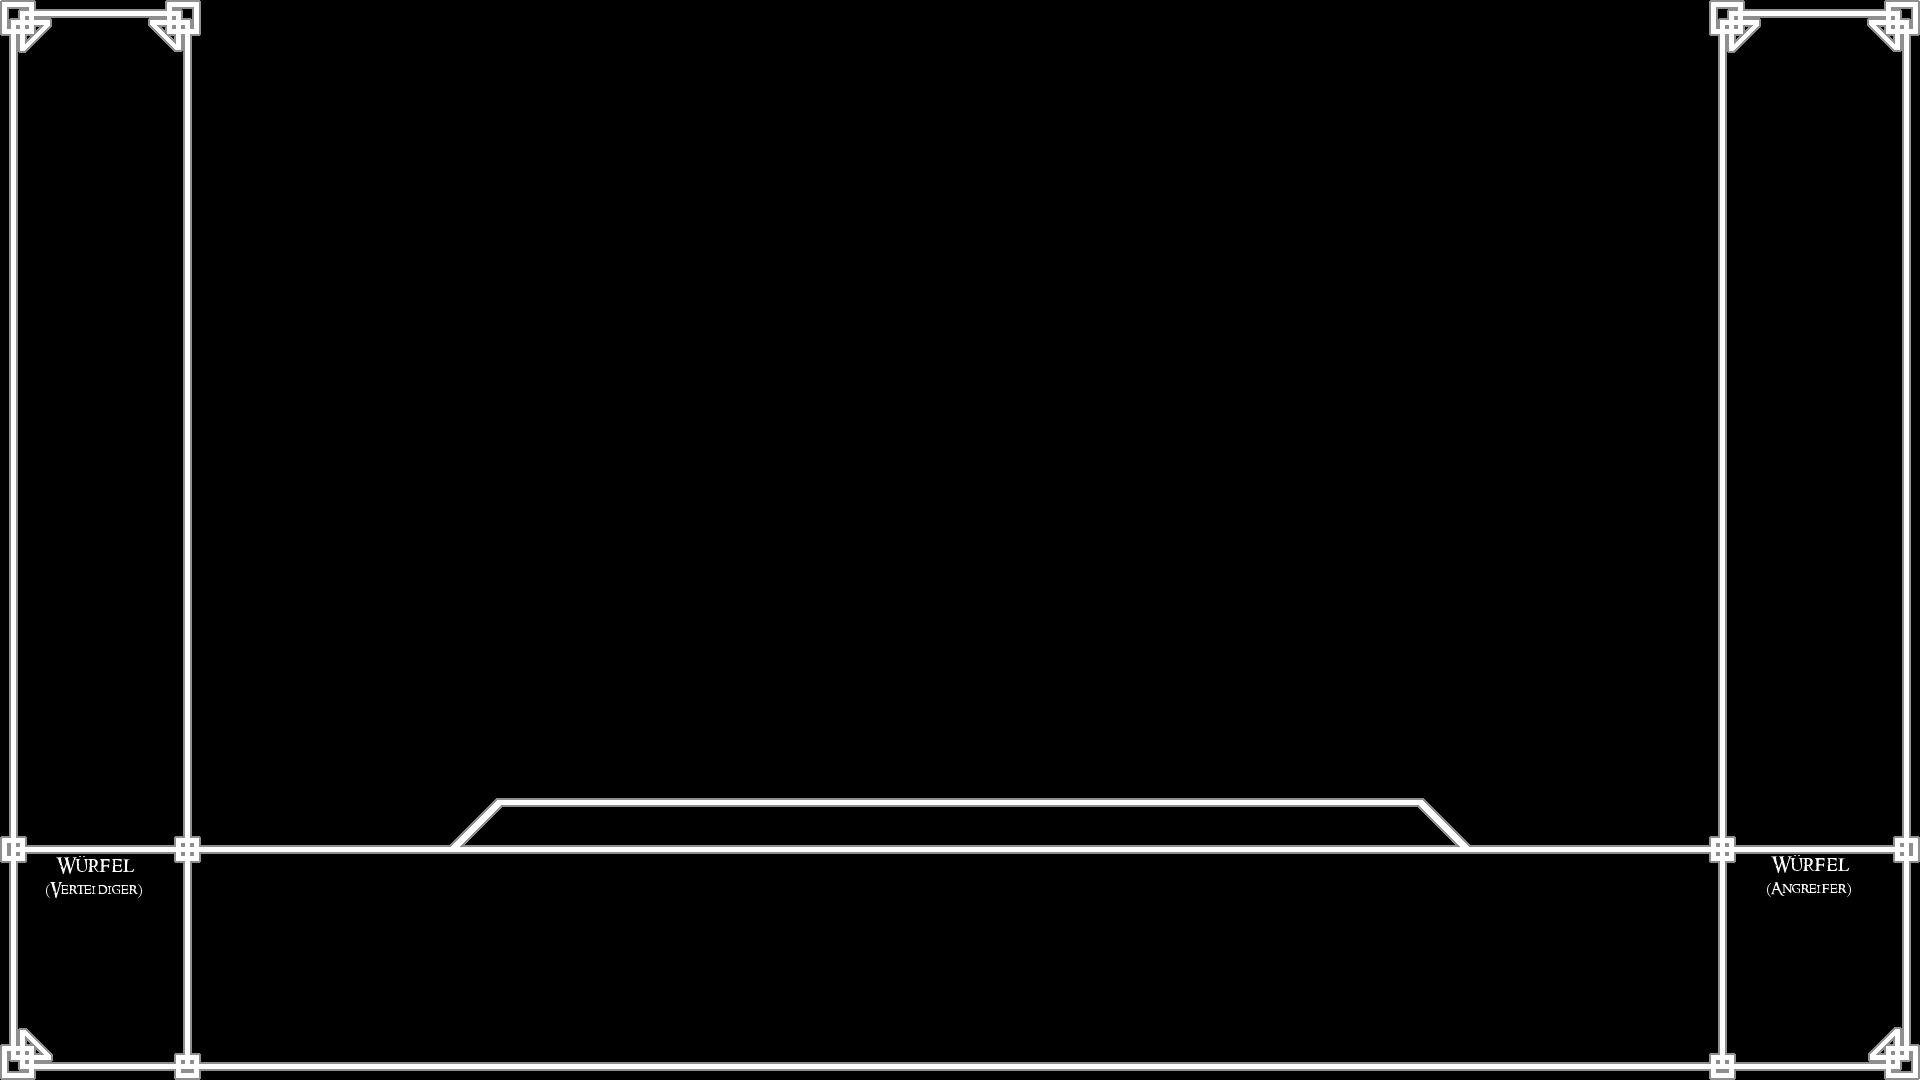
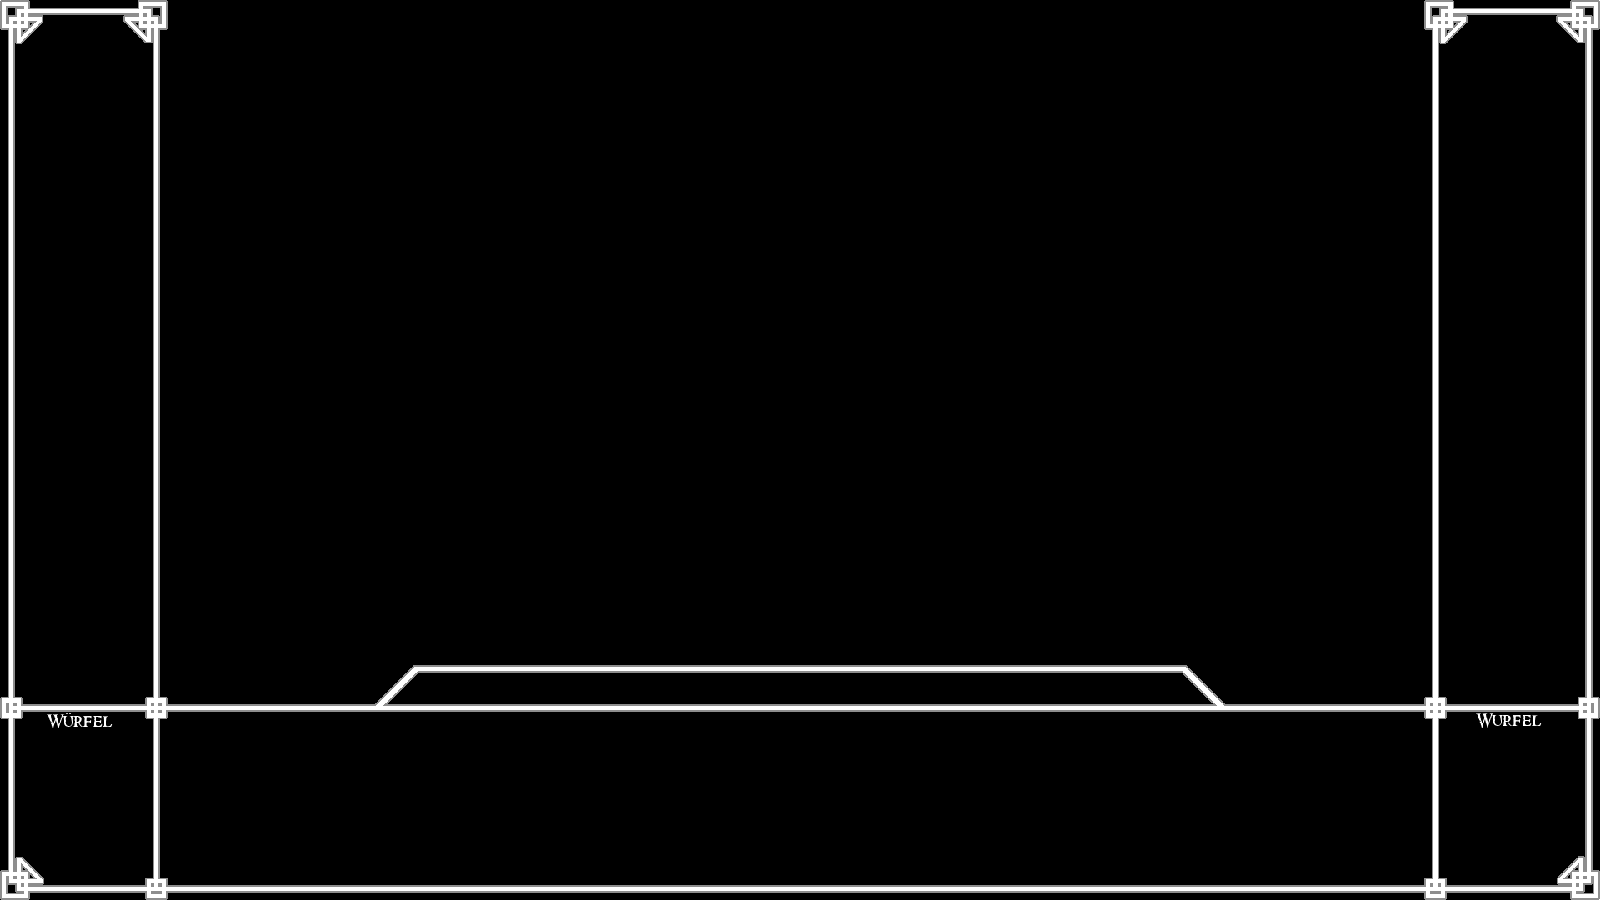
Anpassung Grafik
veränderte Grafik für 1600x900, angepasste Größen

diff --git a/GeneralMap.java b/GeneralMap.java
@@ -27,9 +27,9 @@ public class GeneralMap extends World
          * @param y Y-Ausdehnung
          * @param p Kantenlänge der Felder in Pixeln
          */
-        super(1920, 1080, 1);
+        super(1600, 900, 1);
         addObject(new Menue_Button(),100,38);
-        addObject(new Roll_Button(),100,1000);
-        addObject(new Roll_Button(),1814,1000);
+        addObject(new Roll_Button(),84,835);
+        addObject(new Roll_Button(),1513,835);
     }
 }
